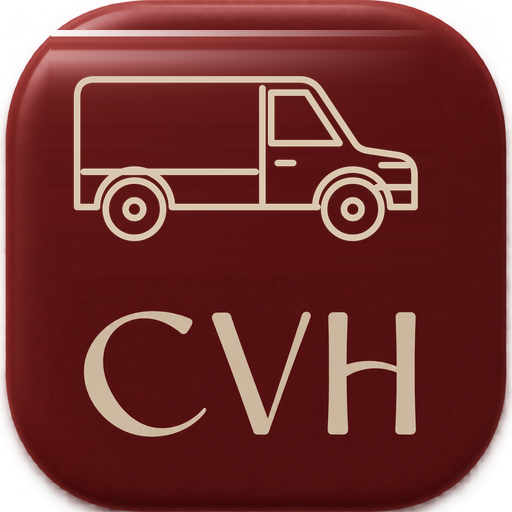
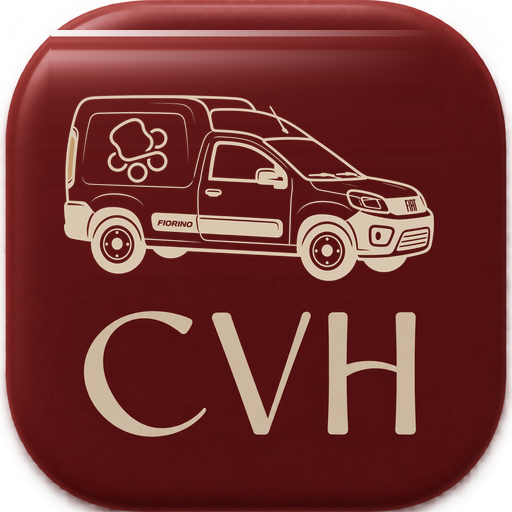
Telas do app novo (raiz) a partir de painel-cvh 60c32b6

Changed region(s): [[0.125, 0.125, 0.875, 0.5625]]

diff --git a/index-antigo.html b/index-antigo.html
@@ -160,7 +160,7 @@
 })();
 
 </script>
-<meta name="apple-mobile-web-app-capable" content="yes"><meta name="mobile-web-app-capable" content="yes"><meta name="apple-mobile-web-app-title" content="Carteira de saúde"><meta name="apple-mobile-web-app-status-bar-style" content="default"><meta name="theme-color" content="#C6B098"><link rel="apple-touch-icon" href="icone-180.png"><link rel="icon" type="image/png" media="(prefers-color-scheme: dark)" href="icone-escuro-192.png?v=2"><link rel="icon" type="image/png" href="icone-192.png?v=2"><link rel="manifest" href="carteira.webmanifest?v=20261128035640">
+<meta name="apple-mobile-web-app-capable" content="yes"><meta name="mobile-web-app-capable" content="yes"><meta name="apple-mobile-web-app-title" content="Carteira de saúde"><meta name="apple-mobile-web-app-status-bar-style" content="default"><meta name="theme-color" content="#C6B098"><link rel="apple-touch-icon" href="icone-180.png"><link rel="icon" type="image/png" media="(prefers-color-scheme: dark)" href="icone-escuro-192.png?v=2"><link rel="icon" type="image/png" href="icone-192.png?v=2"><link rel="manifest" href="carteira.webmanifest?v=20261128040401">
 
 <meta charset="utf-8">
 <meta name="viewport" content="width=device-width,initial-scale=1,maximum-scale=1,viewport-fit=cover">
@@ -1266,7 +1266,7 @@ input:focus,select:focus,textarea:focus{border-color:var(--dourado);outline:none
   }
   window.CVH_SERVIDOR = { api: API, chamar: chamar, arquivo: arquivo };
   // versão nova publicada: aparece um aviso pequeno, lá em cima, para recarregar (o app aberto não troca sozinho de versão)
-  var VERSAO = '20261128035640';
+  var VERSAO = '20261128040401';
   // o app instalado no iPhone às vezes recarrega a página guardada: abre o endereço com a versão nova no fim, que obriga a buscar de novo
   function recarregar(v) { try { var u = new URL(location.href); u.searchParams.set('atualizado', v); location.replace(u.toString()); } catch (e) { location.reload(); } }
   if (q.get('atualizado')) { try { var u0 = new URL(location.href); u0.searchParams.delete('atualizado'); history.replaceState(history.state, '', u0.toString()); } catch (e) {} }
@@ -5376,7 +5376,7 @@ const MODS = [
   { k: 'certificados', perm: 'certificados', t: 'Certificados', d: 'Certificado de cada doação, para imprimir e postar', ic: svgIc('<circle cx="12" cy="9" r="5.5"/><path d="M12 6.300l.9 1.800 2 .3-1.450 1.400.35 2-1.800-.95-1.800.95.35-2L9.100 8.400l2-.3z"/><path d="M8.700 13.600 7.500 21l4.500-2.400L16.500 21l-1.200-7.400"/>') },
   { k: 'camaras', perm: ['transporte', 'estoque'], t: 'Câmaras portáteis', d: 'Agenda das câmaras 1 e 2 com bolsa de CH, transporte, texto e termo assinado', ic: svgIc('<rect x="4" y="7" width="16" height="12" rx="2"/><path d="M8 7V5h8v2M4 11h16M10 15h4"/>') },
   { k: 'clinicas', perm: ['transporte', 'estoque', 'receptores', 'laudos'], t: 'Cadastro de clínicas', d: 'Cadastro único das clínicas: endereço, contatos e médicos veterinários', ic: svgIc('<path d="M20.6 1.6v4.6M18.3 3.9h4.6" stroke-width="2.1"/><g stroke-width="1.3"><path d="M3.4 20.6V6.9M13.4 20.6V6.2"/><path d="M2 7.4C5.3 4.3 10.6 3.6 14.6 5.4"/><path d="M2.6 12.3c3.7-1.1 8.4-1.1 11.6 0"/><path d="M5.5 20.6v-6.4h5.9v6.4M8.45 14.2v6.4"/><path d="M13.4 10.4c3-1 6.4-.8 8.9.9M21.6 11v9.6"/><rect x="14.9" y="14.6" width="5.3" height="3.6" rx=".4"/><path d="M1.6 20.8h21"/><path d="M8.45 6.9v3.2M6.85 8.5h3.2" stroke-width="1.6"/></g>') },
-  { k: 'transporte', perm: 'transporte', t: 'Logística CVH', d: 'Motoboy, Fiorino, rotas, câmaras, doadores, serviços gerais, quilometragem e combustível', ic: svgIc('<circle cx="6" cy="17" r="3"/><circle cx="18" cy="17" r="3"/><path d="M9 17h6l-3-7h4l2 4M12 10H9"/>') },
+  { k: 'transporte', perm: 'transporte', t: 'Logística CVH', d: 'Motoboy, Fiorino, rotas, câmaras, doadores, serviços gerais, quilometragem e combustível', ic: svgIc('<path d="M12 21.2c-.4 0-6.6-6.3-6.6-11.2a6.6 6.6 0 0 1 13.2 0c0 4.9-6.2 11.2-6.6 11.2z"/><circle cx="12" cy="9.9" r="2.5"/><path d="M8.3 21.4h7.4"/>') },
   { k: 'inteligencia', perm: 'inteligencia', t: 'Central de inteligência', d: 'Aptos, pendências, tipos sanguíneos e evolução do clube', ic: svgIc('<path d="M4 20V10M9.500 20V4M15 20v-7M20.500 20v-4"/><path d="M3 20.500h18"/>') },
   { k: 'pendencias', perm: 'pendencias', t: 'Pendências e Pra hoje', d: 'Tarefas da equipe e o roteiro dos doadores do dia', ic: svgIc('<path d="M9 5h10M9 12h10M9 19h10"/><path d="M3.500 5l1.300 1.300L7 4M3.500 12l1.300 1.300L7 11M3.500 19l1.300 1.300L7 18"/>') },
   { k: 'auditoria', perm: 'auditoria', t: 'Histórico de alterações', d: 'Quem criou, alterou ou apagou cada coisa, e quando', ic: svgIc('<circle cx="12" cy="12" r="8.500"/><path d="M12 7.500V12l3 2"/><path d="M3.500 4.500v3.500H7"/>') },

diff --git a/painel-antigo.html b/painel-antigo.html
@@ -161,7 +161,7 @@
 })();
 
 </script>
-<meta name="apple-mobile-web-app-capable" content="yes"><meta name="mobile-web-app-capable" content="yes"><meta name="apple-mobile-web-app-title" content="Painel CVH"><meta name="apple-mobile-web-app-status-bar-style" content="default"><meta name="theme-color" content="#F5EFE7"><link rel="apple-touch-icon" href="painel-180.png"><link rel="icon" type="image/png" media="(prefers-color-scheme: dark)" href="painel-escuro-192.png?v=2"><link rel="icon" type="image/png" href="painel-192.png?v=2"><link rel="manifest" href="painel.webmanifest?v=20261128035640">
+<meta name="apple-mobile-web-app-capable" content="yes"><meta name="mobile-web-app-capable" content="yes"><meta name="apple-mobile-web-app-title" content="Painel CVH"><meta name="apple-mobile-web-app-status-bar-style" content="default"><meta name="theme-color" content="#F5EFE7"><link rel="apple-touch-icon" href="painel-180.png"><link rel="icon" type="image/png" media="(prefers-color-scheme: dark)" href="painel-escuro-192.png?v=2"><link rel="icon" type="image/png" href="painel-192.png?v=2"><link rel="manifest" href="painel.webmanifest?v=20261128040401">
 
 <meta charset="utf-8">
 <meta name="viewport" content="width=device-width,initial-scale=1,maximum-scale=1,viewport-fit=cover">
@@ -1267,7 +1267,7 @@ input:focus,select:focus,textarea:focus{border-color:var(--dourado);outline:none
   }
   window.CVH_SERVIDOR = { api: API, chamar: chamar, arquivo: arquivo };
   // versão nova publicada: aparece um aviso pequeno, lá em cima, para recarregar (o app aberto não troca sozinho de versão)
-  var VERSAO = '20261128035640';
+  var VERSAO = '20261128040401';
   // o app instalado no iPhone às vezes recarrega a página guardada: abre o endereço com a versão nova no fim, que obriga a buscar de novo
   function recarregar(v) { try { var u = new URL(location.href); u.searchParams.set('atualizado', v); location.replace(u.toString()); } catch (e) { location.reload(); } }
   if (q.get('atualizado')) { try { var u0 = new URL(location.href); u0.searchParams.delete('atualizado'); history.replaceState(history.state, '', u0.toString()); } catch (e) {} }
@@ -5377,7 +5377,7 @@ const MODS = [
   { k: 'certificados', perm: 'certificados', t: 'Certificados', d: 'Certificado de cada doação, para imprimir e postar', ic: svgIc('<circle cx="12" cy="9" r="5.5"/><path d="M12 6.300l.9 1.800 2 .3-1.450 1.400.35 2-1.800-.95-1.800.95.35-2L9.100 8.400l2-.3z"/><path d="M8.700 13.600 7.500 21l4.500-2.400L16.500 21l-1.200-7.400"/>') },
   { k: 'camaras', perm: ['transporte', 'estoque'], t: 'Câmaras portáteis', d: 'Agenda das câmaras 1 e 2 com bolsa de CH, transporte, texto e termo assinado', ic: svgIc('<rect x="4" y="7" width="16" height="12" rx="2"/><path d="M8 7V5h8v2M4 11h16M10 15h4"/>') },
   { k: 'clinicas', perm: ['transporte', 'estoque', 'receptores', 'laudos'], t: 'Cadastro de clínicas', d: 'Cadastro único das clínicas: endereço, contatos e médicos veterinários', ic: svgIc('<path d="M20.6 1.6v4.6M18.3 3.9h4.6" stroke-width="2.1"/><g stroke-width="1.3"><path d="M3.4 20.6V6.9M13.4 20.6V6.2"/><path d="M2 7.4C5.3 4.3 10.6 3.6 14.6 5.4"/><path d="M2.6 12.3c3.7-1.1 8.4-1.1 11.6 0"/><path d="M5.5 20.6v-6.4h5.9v6.4M8.45 14.2v6.4"/><path d="M13.4 10.4c3-1 6.4-.8 8.9.9M21.6 11v9.6"/><rect x="14.9" y="14.6" width="5.3" height="3.6" rx=".4"/><path d="M1.6 20.8h21"/><path d="M8.45 6.9v3.2M6.85 8.5h3.2" stroke-width="1.6"/></g>') },
-  { k: 'transporte', perm: 'transporte', t: 'Logística CVH', d: 'Motoboy, Fiorino, rotas, câmaras, doadores, serviços gerais, quilometragem e combustível', ic: svgIc('<circle cx="6" cy="17" r="3"/><circle cx="18" cy="17" r="3"/><path d="M9 17h6l-3-7h4l2 4M12 10H9"/>') },
+  { k: 'transporte', perm: 'transporte', t: 'Logística CVH', d: 'Motoboy, Fiorino, rotas, câmaras, doadores, serviços gerais, quilometragem e combustível', ic: svgIc('<path d="M12 21.2c-.4 0-6.6-6.3-6.6-11.2a6.6 6.6 0 0 1 13.2 0c0 4.9-6.2 11.2-6.6 11.2z"/><circle cx="12" cy="9.9" r="2.5"/><path d="M8.3 21.4h7.4"/>') },
   { k: 'inteligencia', perm: 'inteligencia', t: 'Central de inteligência', d: 'Aptos, pendências, tipos sanguíneos e evolução do clube', ic: svgIc('<path d="M4 20V10M9.500 20V4M15 20v-7M20.500 20v-4"/><path d="M3 20.500h18"/>') },
   { k: 'pendencias', perm: 'pendencias', t: 'Pendências e Pra hoje', d: 'Tarefas da equipe e o roteiro dos doadores do dia', ic: svgIc('<path d="M9 5h10M9 12h10M9 19h10"/><path d="M3.500 5l1.300 1.300L7 4M3.500 12l1.300 1.300L7 11M3.500 19l1.300 1.300L7 18"/>') },
   { k: 'auditoria', perm: 'auditoria', t: 'Histórico de alterações', d: 'Quem criou, alterou ou apagou cada coisa, e quando', ic: svgIc('<circle cx="12" cy="12" r="8.500"/><path d="M12 7.500V12l3 2"/><path d="M3.500 4.500v3.500H7"/>') },

diff --git a/carteirinha.html b/carteirinha.html
@@ -161,7 +161,7 @@
 })();
 
 </script>
-<meta name="apple-mobile-web-app-capable" content="yes"><meta name="mobile-web-app-capable" content="yes"><meta name="apple-mobile-web-app-title" content="Cartão doador"><meta name="apple-mobile-web-app-status-bar-style" content="default"><meta name="theme-color" content="#5F130F"><link rel="apple-touch-icon" href="carteirinha-180.png"><link rel="icon" type="image/png" media="(prefers-color-scheme: dark)" href="carteirinha-escuro-192.png?v=2"><link rel="icon" type="image/png" href="carteirinha-192.png?v=2"><link rel="manifest" href="carteirinha.webmanifest?v=20261128040401">
+<meta name="apple-mobile-web-app-capable" content="yes"><meta name="mobile-web-app-capable" content="yes"><meta name="apple-mobile-web-app-title" content="Cartão doador"><meta name="apple-mobile-web-app-status-bar-style" content="default"><meta name="theme-color" content="#5F130F"><link rel="apple-touch-icon" href="carteirinha-180.png"><link rel="icon" type="image/png" media="(prefers-color-scheme: dark)" href="carteirinha-escuro-192.png?v=2"><link rel="icon" type="image/png" href="carteirinha-192.png?v=2"><link rel="manifest" href="carteirinha.webmanifest?v=20261128041552">
 
 <meta charset="utf-8">
 <meta name="viewport" content="width=device-width,initial-scale=1,maximum-scale=1,viewport-fit=cover">
@@ -1267,7 +1267,7 @@ input:focus,select:focus,textarea:focus{border-color:var(--dourado);outline:none
   }
   window.CVH_SERVIDOR = { api: API, chamar: chamar, arquivo: arquivo };
   // versão nova publicada: aparece um aviso pequeno, lá em cima, para recarregar (o app aberto não troca sozinho de versão)
-  var VERSAO = '20261128040401';
+  var VERSAO = '20261128041552';
   // o app instalado no iPhone às vezes recarrega a página guardada: abre o endereço com a versão nova no fim, que obriga a buscar de novo
   function recarregar(v) { try { var u = new URL(location.href); u.searchParams.set('atualizado', v); location.replace(u.toString()); } catch (e) { location.reload(); } }
   if (q.get('atualizado')) { try { var u0 = new URL(location.href); u0.searchParams.delete('atualizado'); history.replaceState(history.state, '', u0.toString()); } catch (e) {} }

diff --git a/painel-dea.html b/painel-dea.html
@@ -161,7 +161,7 @@
 })();
 
 </script>
-<meta name="apple-mobile-web-app-capable" content="yes"><meta name="mobile-web-app-capable" content="yes"><meta name="apple-mobile-web-app-title" content="Logística DEA+"><meta name="apple-mobile-web-app-status-bar-style" content="default"><meta name="theme-color" content="#F5EFE7"><link rel="apple-touch-icon" href="painel-180.png"><link rel="icon" type="image/png" media="(prefers-color-scheme: dark)" href="painel-escuro-192.png?v=2"><link rel="icon" type="image/png" href="painel-192.png?v=2"><link rel="manifest" href="painel-dea.webmanifest?v=20261128040401">
+<meta name="apple-mobile-web-app-capable" content="yes"><meta name="mobile-web-app-capable" content="yes"><meta name="apple-mobile-web-app-title" content="Logística DEA+"><meta name="apple-mobile-web-app-status-bar-style" content="default"><meta name="theme-color" content="#F5EFE7"><link rel="apple-touch-icon" href="painel-180.png"><link rel="icon" type="image/png" media="(prefers-color-scheme: dark)" href="painel-escuro-192.png?v=2"><link rel="icon" type="image/png" href="painel-192.png?v=2"><link rel="manifest" href="painel-dea.webmanifest?v=20261128041552">
 
 <meta charset="utf-8">
 <meta name="viewport" content="width=device-width,initial-scale=1,maximum-scale=1,viewport-fit=cover">
@@ -1267,7 +1267,7 @@ input:focus,select:focus,textarea:focus{border-color:var(--dourado);outline:none
   }
   window.CVH_SERVIDOR = { api: API, chamar: chamar, arquivo: arquivo };
   // versão nova publicada: aparece um aviso pequeno, lá em cima, para recarregar (o app aberto não troca sozinho de versão)
-  var VERSAO = '20261128040401';
+  var VERSAO = '20261128041552';
   // o app instalado no iPhone às vezes recarrega a página guardada: abre o endereço com a versão nova no fim, que obriga a buscar de novo
   function recarregar(v) { try { var u = new URL(location.href); u.searchParams.set('atualizado', v); location.replace(u.toString()); } catch (e) { location.reload(); } }
   if (q.get('atualizado')) { try { var u0 = new URL(location.href); u0.searchParams.delete('atualizado'); history.replaceState(history.state, '', u0.toString()); } catch (e) {} }

diff --git a/monitoramento.html b/monitoramento.html
@@ -47,7 +47,7 @@
   }
   window.CVH_SERVIDOR = { api: API, chamar: chamar, arquivo: arquivo };
   // versão nova publicada: aparece um aviso pequeno, lá em cima, para recarregar (o app aberto não troca sozinho de versão)
-  var VERSAO = '20261128040401';
+  var VERSAO = '20261128041552';
   // o app instalado no iPhone às vezes recarrega a página guardada: abre o endereço com a versão nova no fim, que obriga a buscar de novo
   function recarregar(v) { try { var u = new URL(location.href); u.searchParams.set('atualizado', v); location.replace(u.toString()); } catch (e) { location.reload(); } }
   if (q.get('atualizado')) { try { var u0 = new URL(location.href); u0.searchParams.delete('atualizado'); history.replaceState(history.state, '', u0.toString()); } catch (e) {} }
@@ -235,7 +235,7 @@
 })();
 
 </script>
-<meta name="apple-mobile-web-app-capable" content="yes"><meta name="mobile-web-app-capable" content="yes"><meta name="apple-mobile-web-app-title" content="Monitoramento da transfusão · CVH"><meta name="apple-mobile-web-app-status-bar-style" content="default"><meta name="theme-color" content="#F5EFE7"><link rel="apple-touch-icon" href="painel-180.png"><link rel="icon" type="image/png" media="(prefers-color-scheme: dark)" href="painel-escuro-192.png?v=2"><link rel="icon" type="image/png" href="painel-192.png?v=2"><link rel="manifest" href="painel.webmanifest?v=20261128040401">
+<meta name="apple-mobile-web-app-capable" content="yes"><meta name="mobile-web-app-capable" content="yes"><meta name="apple-mobile-web-app-title" content="Monitoramento da transfusão · CVH"><meta name="apple-mobile-web-app-status-bar-style" content="default"><meta name="theme-color" content="#F5EFE7"><link rel="apple-touch-icon" href="painel-180.png"><link rel="icon" type="image/png" media="(prefers-color-scheme: dark)" href="painel-escuro-192.png?v=2"><link rel="icon" type="image/png" href="painel-192.png?v=2"><link rel="manifest" href="painel.webmanifest?v=20261128041552">
 <meta charset="utf-8"><meta name="viewport" content="width=device-width,initial-scale=1,viewport-fit=cover">
 <title>Ficha de monitoramento da transfusão · CVH</title>
 <style>

diff --git a/index.html b/index.html
@@ -160,7 +160,7 @@
 })();
 
 </script>
-<meta name="apple-mobile-web-app-capable" content="yes"><meta name="mobile-web-app-capable" content="yes"><meta name="apple-mobile-web-app-title" content="Carteira de saúde"><meta name="apple-mobile-web-app-status-bar-style" content="default"><meta name="theme-color" content="#C6B098"><link rel="apple-touch-icon" href="icone-180.png"><link rel="icon" type="image/png" media="(prefers-color-scheme: dark)" href="icone-escuro-192.png?v=2"><link rel="icon" type="image/png" href="icone-192.png?v=2"><link rel="manifest" href="carteira.webmanifest?v=20261128040401">
+<meta name="apple-mobile-web-app-capable" content="yes"><meta name="mobile-web-app-capable" content="yes"><meta name="apple-mobile-web-app-title" content="Carteira de saúde"><meta name="apple-mobile-web-app-status-bar-style" content="default"><meta name="theme-color" content="#C6B098"><link rel="apple-touch-icon" href="icone-180.png"><link rel="icon" type="image/png" media="(prefers-color-scheme: dark)" href="icone-escuro-192.png?v=2"><link rel="icon" type="image/png" href="icone-192.png?v=2"><link rel="manifest" href="carteira.webmanifest?v=20261128041552">
 
 <meta charset="utf-8">
 <meta name="viewport" content="width=device-width,initial-scale=1,maximum-scale=1,viewport-fit=cover">
@@ -1266,7 +1266,7 @@ input:focus,select:focus,textarea:focus{border-color:var(--dourado);outline:none
   }
   window.CVH_SERVIDOR = { api: API, chamar: chamar, arquivo: arquivo };
   // versão nova publicada: aparece um aviso pequeno, lá em cima, para recarregar (o app aberto não troca sozinho de versão)
-  var VERSAO = '20261128040401';
+  var VERSAO = '20261128041552';
   // o app instalado no iPhone às vezes recarrega a página guardada: abre o endereço com a versão nova no fim, que obriga a buscar de novo
   function recarregar(v) { try { var u = new URL(location.href); u.searchParams.set('atualizado', v); location.replace(u.toString()); } catch (e) { location.reload(); } }
   if (q.get('atualizado')) { try { var u0 = new URL(location.href); u0.searchParams.delete('atualizado'); history.replaceState(history.state, '', u0.toString()); } catch (e) {} }

diff --git a/painel.html b/painel.html
@@ -161,7 +161,7 @@
 })();
 
 </script>
-<meta name="apple-mobile-web-app-capable" content="yes"><meta name="mobile-web-app-capable" content="yes"><meta name="apple-mobile-web-app-title" content="Painel CVH"><meta name="apple-mobile-web-app-status-bar-style" content="default"><meta name="theme-color" content="#F5EFE7"><link rel="apple-touch-icon" href="painel-180.png"><link rel="icon" type="image/png" media="(prefers-color-scheme: dark)" href="painel-escuro-192.png?v=2"><link rel="icon" type="image/png" href="painel-192.png?v=2"><link rel="manifest" href="painel.webmanifest?v=20261128040401">
+<meta name="apple-mobile-web-app-capable" content="yes"><meta name="mobile-web-app-capable" content="yes"><meta name="apple-mobile-web-app-title" content="Painel CVH"><meta name="apple-mobile-web-app-status-bar-style" content="default"><meta name="theme-color" content="#F5EFE7"><link rel="apple-touch-icon" href="painel-180.png"><link rel="icon" type="image/png" media="(prefers-color-scheme: dark)" href="painel-escuro-192.png?v=2"><link rel="icon" type="image/png" href="painel-192.png?v=2"><link rel="manifest" href="painel.webmanifest?v=20261128041552">
 
 <meta charset="utf-8">
 <meta name="viewport" content="width=device-width,initial-scale=1,maximum-scale=1,viewport-fit=cover">
@@ -1267,7 +1267,7 @@ input:focus,select:focus,textarea:focus{border-color:var(--dourado);outline:none
   }
   window.CVH_SERVIDOR = { api: API, chamar: chamar, arquivo: arquivo };
   // versão nova publicada: aparece um aviso pequeno, lá em cima, para recarregar (o app aberto não troca sozinho de versão)
-  var VERSAO = '20261128040401';
+  var VERSAO = '20261128041552';
   // o app instalado no iPhone às vezes recarrega a página guardada: abre o endereço com a versão nova no fim, que obriga a buscar de novo
   function recarregar(v) { try { var u = new URL(location.href); u.searchParams.set('atualizado', v); location.replace(u.toString()); } catch (e) { location.reload(); } }
   if (q.get('atualizado')) { try { var u0 = new URL(location.href); u0.searchParams.delete('atualizado'); history.replaceState(history.state, '', u0.toString()); } catch (e) {} }

diff --git a/termo-camara.html b/termo-camara.html
@@ -47,7 +47,7 @@
   }
   window.CVH_SERVIDOR = { api: API, chamar: chamar, arquivo: arquivo };
   // versão nova publicada: aparece um aviso pequeno, lá em cima, para recarregar (o app aberto não troca sozinho de versão)
-  var VERSAO = '20261128040401';
+  var VERSAO = '20261128041552';
   // o app instalado no iPhone às vezes recarrega a página guardada: abre o endereço com a versão nova no fim, que obriga a buscar de novo
   function recarregar(v) { try { var u = new URL(location.href); u.searchParams.set('atualizado', v); location.replace(u.toString()); } catch (e) { location.reload(); } }
   if (q.get('atualizado')) { try { var u0 = new URL(location.href); u0.searchParams.delete('atualizado'); history.replaceState(history.state, '', u0.toString()); } catch (e) {} }
@@ -235,7 +235,7 @@
 })();
 
 </script>
-<meta name="apple-mobile-web-app-capable" content="yes"><meta name="mobile-web-app-capable" content="yes"><meta name="apple-mobile-web-app-title" content="Termo da câmara · CVH"><meta name="apple-mobile-web-app-status-bar-style" content="default"><meta name="theme-color" content="#F5EFE7"><link rel="apple-touch-icon" href="painel-180.png"><link rel="icon" type="image/png" media="(prefers-color-scheme: dark)" href="painel-escuro-192.png?v=2"><link rel="icon" type="image/png" href="painel-192.png?v=2"><link rel="manifest" href="painel.webmanifest?v=20261128040401">
+<meta name="apple-mobile-web-app-capable" content="yes"><meta name="mobile-web-app-capable" content="yes"><meta name="apple-mobile-web-app-title" content="Termo da câmara · CVH"><meta name="apple-mobile-web-app-status-bar-style" content="default"><meta name="theme-color" content="#F5EFE7"><link rel="apple-touch-icon" href="painel-180.png"><link rel="icon" type="image/png" media="(prefers-color-scheme: dark)" href="painel-escuro-192.png?v=2"><link rel="icon" type="image/png" href="painel-192.png?v=2"><link rel="manifest" href="painel.webmanifest?v=20261128041552">
 <meta charset="utf-8"><meta name="viewport" content="width=device-width,initial-scale=1,maximum-scale=1,viewport-fit=cover">
 <title>Termo da câmara · CVH</title>
 <style>

diff --git a/acompanhar.html b/acompanhar.html
@@ -47,7 +47,7 @@
   }
   window.CVH_SERVIDOR = { api: API, chamar: chamar, arquivo: arquivo };
   // versão nova publicada: aparece um aviso pequeno, lá em cima, para recarregar (o app aberto não troca sozinho de versão)
-  var VERSAO = '20261128040401';
+  var VERSAO = '20261128041552';
   // o app instalado no iPhone às vezes recarrega a página guardada: abre o endereço com a versão nova no fim, que obriga a buscar de novo
   function recarregar(v) { try { var u = new URL(location.href); u.searchParams.set('atualizado', v); location.replace(u.toString()); } catch (e) { location.reload(); } }
   if (q.get('atualizado')) { try { var u0 = new URL(location.href); u0.searchParams.delete('atualizado'); history.replaceState(history.state, '', u0.toString()); } catch (e) {} }
@@ -235,7 +235,7 @@
 })();
 
 </script>
-<meta name="apple-mobile-web-app-capable" content="yes"><meta name="mobile-web-app-capable" content="yes"><meta name="apple-mobile-web-app-title" content="Acompanhar pedido · CVH"><meta name="apple-mobile-web-app-status-bar-style" content="default"><meta name="theme-color" content="#F5EFE7"><link rel="apple-touch-icon" href="painel-180.png"><link rel="icon" type="image/png" media="(prefers-color-scheme: dark)" href="painel-escuro-192.png?v=2"><link rel="icon" type="image/png" href="painel-192.png?v=2"><link rel="manifest" href="painel.webmanifest?v=20261128040401">
+<meta name="apple-mobile-web-app-capable" content="yes"><meta name="mobile-web-app-capable" content="yes"><meta name="apple-mobile-web-app-title" content="Acompanhar pedido · CVH"><meta name="apple-mobile-web-app-status-bar-style" content="default"><meta name="theme-color" content="#F5EFE7"><link rel="apple-touch-icon" href="painel-180.png"><link rel="icon" type="image/png" media="(prefers-color-scheme: dark)" href="painel-escuro-192.png?v=2"><link rel="icon" type="image/png" href="painel-192.png?v=2"><link rel="manifest" href="painel.webmanifest?v=20261128041552">
 <meta charset="utf-8"><meta name="viewport" content="width=device-width,initial-scale=1,viewport-fit=cover">
 <title>Acompanhar pedido · CVH</title>
 <style>

diff --git a/motoboy-dea.html b/motoboy-dea.html
@@ -47,7 +47,7 @@
   }
   window.CVH_SERVIDOR = { api: API, chamar: chamar, arquivo: arquivo };
   // versão nova publicada: aparece um aviso pequeno, lá em cima, para recarregar (o app aberto não troca sozinho de versão)
-  var VERSAO = '20261128040401';
+  var VERSAO = '20261128041552';
   // o app instalado no iPhone às vezes recarrega a página guardada: abre o endereço com a versão nova no fim, que obriga a buscar de novo
   function recarregar(v) { try { var u = new URL(location.href); u.searchParams.set('atualizado', v); location.replace(u.toString()); } catch (e) { location.reload(); } }
   if (q.get('atualizado')) { try { var u0 = new URL(location.href); u0.searchParams.delete('atualizado'); history.replaceState(history.state, '', u0.toString()); } catch (e) {} }
@@ -235,7 +235,7 @@
 })();
 
 </script>
-<meta name="apple-mobile-web-app-capable" content="yes"><meta name="mobile-web-app-capable" content="yes"><meta name="apple-mobile-web-app-title" content="Motoboy DEA+"><meta name="apple-mobile-web-app-status-bar-style" content="default"><meta name="theme-color" content="#F5EFE7"><link rel="apple-touch-icon" href="motoboy-180.png"><link rel="icon" type="image/png" media="(prefers-color-scheme: dark)" href="motoboy-escuro-192.png?v=2"><link rel="icon" type="image/png" href="motoboy-192.png?v=2"><link rel="manifest" href="motoboy-dea.webmanifest?v=20261128040401">
+<meta name="apple-mobile-web-app-capable" content="yes"><meta name="mobile-web-app-capable" content="yes"><meta name="apple-mobile-web-app-title" content="Motoboy DEA+"><meta name="apple-mobile-web-app-status-bar-style" content="default"><meta name="theme-color" content="#F5EFE7"><link rel="apple-touch-icon" href="motoboy-180.png"><link rel="icon" type="image/png" media="(prefers-color-scheme: dark)" href="motoboy-escuro-192.png?v=2"><link rel="icon" type="image/png" href="motoboy-192.png?v=2"><link rel="manifest" href="motoboy-dea.webmanifest?v=20261128041552">
 <meta charset="utf-8"><meta name="viewport" content="width=device-width,initial-scale=1,maximum-scale=1,viewport-fit=cover">
 <title>Motoboy DEA+</title>
 <style>

diff --git a/requisicao.html b/requisicao.html
@@ -47,7 +47,7 @@
   }
   window.CVH_SERVIDOR = { api: API, chamar: chamar, arquivo: arquivo };
   // versão nova publicada: aparece um aviso pequeno, lá em cima, para recarregar (o app aberto não troca sozinho de versão)
-  var VERSAO = '20261128040401';
+  var VERSAO = '20261128041552';
   // o app instalado no iPhone às vezes recarrega a página guardada: abre o endereço com a versão nova no fim, que obriga a buscar de novo
   function recarregar(v) { try { var u = new URL(location.href); u.searchParams.set('atualizado', v); location.replace(u.toString()); } catch (e) { location.reload(); } }
   if (q.get('atualizado')) { try { var u0 = new URL(location.href); u0.searchParams.delete('atualizado'); history.replaceState(history.state, '', u0.toString()); } catch (e) {} }
@@ -235,7 +235,7 @@
 })();
 
 </script>
-<meta name="apple-mobile-web-app-capable" content="yes"><meta name="mobile-web-app-capable" content="yes"><meta name="apple-mobile-web-app-title" content="Requisição CVH"><meta name="apple-mobile-web-app-status-bar-style" content="default"><meta name="theme-color" content="#F5EFE7"><link rel="apple-touch-icon" href="painel-180.png"><link rel="icon" type="image/png" media="(prefers-color-scheme: dark)" href="painel-escuro-192.png?v=2"><link rel="icon" type="image/png" href="painel-192.png?v=2"><link rel="manifest" href="painel.webmanifest?v=20261128040401">
+<meta name="apple-mobile-web-app-capable" content="yes"><meta name="mobile-web-app-capable" content="yes"><meta name="apple-mobile-web-app-title" content="Requisição CVH"><meta name="apple-mobile-web-app-status-bar-style" content="default"><meta name="theme-color" content="#F5EFE7"><link rel="apple-touch-icon" href="painel-180.png"><link rel="icon" type="image/png" media="(prefers-color-scheme: dark)" href="painel-escuro-192.png?v=2"><link rel="icon" type="image/png" href="painel-192.png?v=2"><link rel="manifest" href="painel.webmanifest?v=20261128041552">
 <meta charset="utf-8"><meta name="viewport" content="width=device-width,initial-scale=1,maximum-scale=1,viewport-fit=cover">
 <title>Requisição CVH</title>
 <style>

diff --git a/fiorino.html b/fiorino.html
@@ -47,7 +47,7 @@
   }
   window.CVH_SERVIDOR = { api: API, chamar: chamar, arquivo: arquivo };
   // versão nova publicada: aparece um aviso pequeno, lá em cima, para recarregar (o app aberto não troca sozinho de versão)
-  var VERSAO = '20261128040401';
+  var VERSAO = '20261128041552';
   // o app instalado no iPhone às vezes recarrega a página guardada: abre o endereço com a versão nova no fim, que obriga a buscar de novo
   function recarregar(v) { try { var u = new URL(location.href); u.searchParams.set('atualizado', v); location.replace(u.toString()); } catch (e) { location.reload(); } }
   if (q.get('atualizado')) { try { var u0 = new URL(location.href); u0.searchParams.delete('atualizado'); history.replaceState(history.state, '', u0.toString()); } catch (e) {} }
@@ -235,7 +235,7 @@
 })();
 
 </script>
-<meta name="apple-mobile-web-app-capable" content="yes"><meta name="mobile-web-app-capable" content="yes"><meta name="apple-mobile-web-app-title" content="Fiorino"><meta name="apple-mobile-web-app-status-bar-style" content="default"><meta name="theme-color" content="#F5EFE7"><link rel="apple-touch-icon" href="fiorino-180.png"><link rel="icon" type="image/png" media="(prefers-color-scheme: dark)" href="fiorino-escuro-192.png?v=2"><link rel="icon" type="image/png" href="fiorino-192.png?v=2"><link rel="manifest" href="fiorino.webmanifest?v=20261128040401">
+<meta name="apple-mobile-web-app-capable" content="yes"><meta name="mobile-web-app-capable" content="yes"><meta name="apple-mobile-web-app-title" content="Fiorino"><meta name="apple-mobile-web-app-status-bar-style" content="default"><meta name="theme-color" content="#F5EFE7"><link rel="apple-touch-icon" href="fiorino-180.png"><link rel="icon" type="image/png" media="(prefers-color-scheme: dark)" href="fiorino-escuro-192.png?v=2"><link rel="icon" type="image/png" href="fiorino-192.png?v=2"><link rel="manifest" href="fiorino.webmanifest?v=20261128041552">
 <meta charset="utf-8"><meta name="viewport" content="width=device-width,initial-scale=1,maximum-scale=1,viewport-fit=cover">
 <title>Fiorino</title>
 <style>
